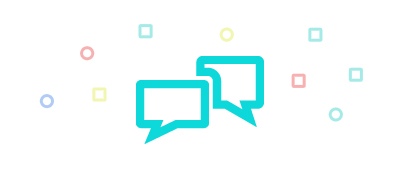
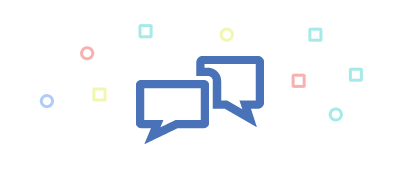
updated for feb 2018

Changed region(s): [[0.33, 0.3107, 0.66, 0.8192]]

diff --git a/index.html b/index.html
@@ -5,7 +5,7 @@
 	 <meta charset="UTF-8">
 	 <meta http-equiv="X-UA-Compatible" content="IE=edge">
 	 <meta name="viewport" content="width=device-width, initial-scale=1">
-	 <meta name="description" content="Fizz Talks UBC Engineering Physics">
+	 <meta name="description" content="Fizz Talks, UBC Engineering Physics">
 	 <meta name="keywords" content="Fizz Talks UBC Engineering Physics Fizz Council">
 	 <meta name="author" content="Tiffany Quon">
 
@@ -40,7 +40,7 @@
 	<div id = "container">
 		<img class = "header-image" src = "conversation.jpg"/>
 		<div id = "main-heading"> Fizz Talks </div>
-		<div class = "description"> <p> Fri. Nov. 3rd | 5:30-7pm | Hennings 202 </p> </div>
+		<div class = "description"> <p> Thurs. Feb. 15th | 5:30-7:15pm | IBLC 182 </p> </div>
 		<br/>
 		<div class = "heading"> Schedule</div>
 		<div class = "schedule">
@@ -48,19 +48,25 @@
 		
 	
 
-		<p><span class = "name">Akshiv Bansal </span>| The Future of Energy</p>
+		<p><span class = "name"> Alex Ezzat </span>| When Pi is Not Pi </p>
 
-		<p><span class = "name">Ian Thompson and James Twaites  </span>| Improv TED Talks</p>
+		<p><span class = "name"> Jessica Ma  </span>| August 1945 Was Pretty Lit </p>
 	
-		<p><span class = "name">Andrew Cote </span>| The Structure of Social Networks </p>
+		<p><span class = "name"> Bryan Luu </span>| Defense Against the Dark Arts </p>
 
-		<p> <span class = "name"> Eugene Shen </span> | Engineering Physics and Mech Courses</p>
+		<p> <span class = "name"> Name of Entry </span> | Fizz' 2018 FilmfEUSt Entry</p>
 		
+		<p class="divider"> .`.`.`.`.`.`.`.`.` Short Intermission `.`.`.`.`.`.`.`.`. </p>
 
-		<p><span class = "name"> Tiffany Quon </span> | Rain-Activated Art </p>
-	
+		<p><span class = "name"> Andrew Cote </span> | Linear AF </p>
 
-		<p><span class = "name"> Edmund Chan and Qiqi Li </span> | Musical Performance </p>
+		<p><span class = "name"> Josh Smith </span> | Slam </p>
+
+		<p><span class = "name"> Ryan Cotsakis </span> | A Waste of Time </p>
+
+		<p><span class = "name"> Artem Cherniata</span> and <span class="name">Vitor Tiepo </span> | Mr Crowley </p>
+
+		<p><span class = "name"> Cindy Zhang </span> | Robot Summer Song</p>
 		
 
 		</div>

diff --git a/style.css b/style.css
@@ -46,7 +46,11 @@ body {
 	font-size: 14px;
 }
 
+.divider {
+	color: #aaaaaa;
+}
+
 .name {
 	font-weight: bolder;
-	color: #0dd8da;
+	color: #4972b8;
 }
